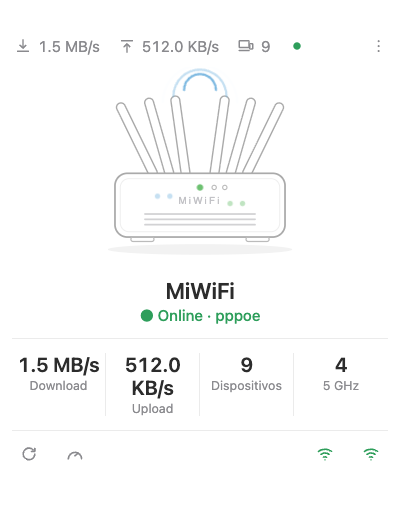
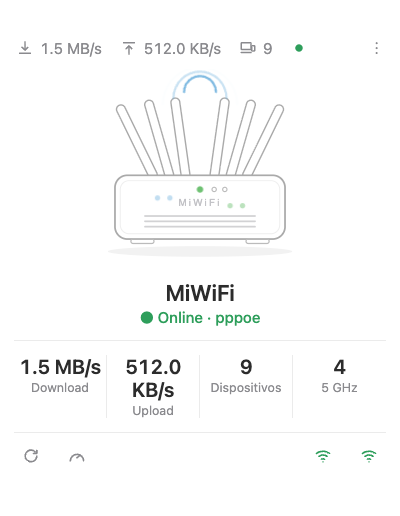
docs: recapture example (full toolbar) and center it in README

diff --git a/README.md b/README.md
@@ -7,7 +7,9 @@ Design and animation inspired by
 hero (pulsing Wi-Fi waves, blinking status LED, up/down data-flow particles),
 a live status line, a stats grid, and a toolbar of actions.
 
-![example](assets/example.png)
+<p align="center">
+  <img src="assets/example.png" alt="MiWiFi Card preview" width="400">
+</p>
 
 ## Installation (HACS)
 
